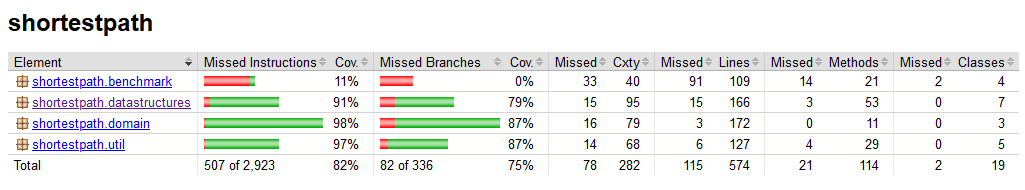
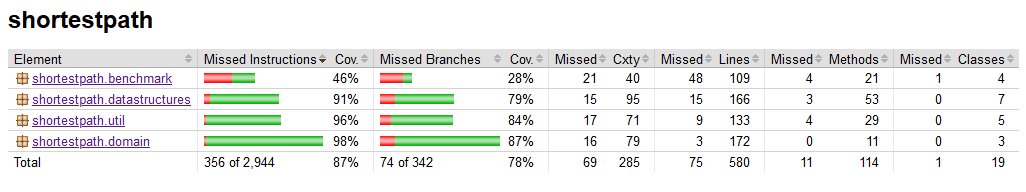
Add more tests

Changed region(s): [[0.0, 0.2368, 0.999, 0.8947], [0.0, 0.0526, 0.1561, 0.1842]]

diff --git a/src/test/java/shortestpath/GridTest.java b/src/test/java/shortestpath/GridTest.java
@@ -36,7 +36,8 @@ public class GridTest {
 
     @Test
     public void cantGetNonExistentNode() {
-        assertAll(() -> assertNull(grid.getNode(-1, 3)),
+        assertAll(
+                () -> assertNull(grid.getNode(-1, 3)),
                 () -> assertNull(grid.getNode(5, -1)),
                 () -> assertNull(grid.getNode(9, 5)),
                 () -> assertNull(grid.getNode(7, 8)),
@@ -46,7 +47,8 @@ public class GridTest {
 
     @Test
     public void validNodeTraversable() {
-        assertAll(() -> assertTrue(grid.traversable(0, 1)),
+        assertAll(
+                () -> assertTrue(grid.traversable(0, 1)),
                 () -> assertTrue(grid.traversable(3, 2)),
                 () -> assertTrue(grid.traversable(4, 1)),
                 () -> assertTrue(grid.traversable(8, 7))
@@ -55,7 +57,8 @@ public class GridTest {
 
     @Test
     public void blockedNodeNotTracersable() {
-        assertAll(() -> assertFalse(grid.traversable(0, 0)),
+        assertAll(
+                () -> assertFalse(grid.traversable(0, 0)),
                 () -> assertFalse(grid.traversable(3, 3)),
                 () -> assertFalse(grid.traversable(6, 6)),
                 () -> assertFalse(grid.traversable(7, 7))
@@ -64,7 +67,8 @@ public class GridTest {
 
     @Test
     public void nonExistentNodeNotTraversable() {
-        assertAll(() -> assertFalse(grid.traversable(-1, 3)),
+        assertAll(
+                () -> assertFalse(grid.traversable(-1, 3)),
                 () -> assertFalse(grid.traversable(5, -1)),
                 () -> assertFalse(grid.traversable(9, 5)),
                 () -> assertFalse(grid.traversable(7, 8)),
@@ -81,9 +85,10 @@ public class GridTest {
         node.setGScore(3);
         node.setVisited(true);
         grid.resetNodes();
-        
+
         Node resettedNode = grid.getNode(3, 2);
-        assertAll(() -> assertFalse(resettedNode.isOpen()),
+        assertAll(
+                () -> assertFalse(resettedNode.isOpen()),
                 () -> assertNull(resettedNode.getParent()),
                 () -> assertEquals(0, resettedNode.getFScore()),
                 () -> assertEquals(0, resettedNode.getGScore()),

diff --git a/src/test/java/shortestpath/ScenarioTest.java b/src/test/java/shortestpath/ScenarioTest.java
@@ -1,0 +1,65 @@
+package shortestpath;
+
+import java.io.File;
+import java.io.IOException;
+import static org.junit.jupiter.api.Assertions.*;
+import org.junit.jupiter.api.BeforeAll;
+import org.junit.jupiter.api.BeforeEach;
+import org.junit.jupiter.api.Test;
+import shortestpath.benchmark.Result;
+import shortestpath.benchmark.Scenario;
+import shortestpath.datastructures.Coordinate;
+import shortestpath.datastructures.Graph;
+import shortestpath.datastructures.List;
+import shortestpath.domain.AStar;
+import shortestpath.io.FileReader;
+import shortestpath.util.Parser;
+
+public class ScenarioTest {
+
+    private static List<String> mapData;
+    private static Graph graph;
+    private Scenario scenario;
+
+    @BeforeAll
+    public static void setUp() throws IOException {
+        mapData = FileReader.read(new File("maps/test.map"));
+        graph = Parser.buildGraph(mapData);
+    }
+
+    @BeforeEach
+    public void buildScenario() {
+        scenario = new Scenario(mapData, new AStar(graph));
+    }
+
+    @Test
+    public void testIsAdded() {
+        shortestpath.benchmark.Test test = new shortestpath.benchmark.Test(
+                new Coordinate(1, 1),
+                new Coordinate(8, 3),
+                12.6568542
+        );
+        scenario.addTest(test);
+        List<shortestpath.benchmark.Test> tests = scenario.getTests();
+        assertEquals(test, tests.get(0));
+    }
+
+    @Test
+    public void testIsRan() {
+        shortestpath.benchmark.Test test = new shortestpath.benchmark.Test(
+                new Coordinate(1, 1),
+                new Coordinate(8, 3),
+                12.6568542
+        );
+        scenario.addTest(test);
+        Result result = scenario.runScenario(1, false);
+        assertAll(
+                () -> assertEquals(1, result.getTestCount()),
+                () -> assertTrue(result.getAvgRunTime() > 0),
+                () -> assertTrue(result.getAvgSetupTime() > 0),
+                () -> assertTrue(result.getMinRunTime() > 0),
+                () -> assertTrue(result.getMaxRunTime() > 0)
+        );
+    }
+
+}

diff --git a/src/main/java/shortestpath/util/MathUtil.java b/src/main/java/shortestpath/util/MathUtil.java
@@ -32,8 +32,12 @@ public class MathUtil {
      *
      * @param values list with values
      * @return average of the values
+     * @throws IllegalArgumentException if list is empty
      */
     public static double average(List<Long> values) {
+        if (values.size() == 0) {
+            throw new IllegalArgumentException();
+        }
         long sum = 0;
         for (int i = 0; i < values.size(); i++) {
             sum += values.get(i);
@@ -46,8 +50,12 @@ public class MathUtil {
      *
      * @param values list with values
      * @return min value
+     * @throws IllegalArgumentException if list is empty
      */
     public static long min(List<Long> values) {
+        if (values.size() == 0) {
+            throw new IllegalArgumentException();
+        }
         long min = Long.MAX_VALUE;
         for (int i = 0; i < values.size(); i++) {
             long value = values.get(i);
@@ -60,7 +68,7 @@ public class MathUtil {
 
     /**
      * Returns the smallest of the two values.
-     * 
+     *
      * @param a first value
      * @param b second value
      * @return min value
@@ -68,14 +76,18 @@ public class MathUtil {
     public static int min(int a, int b) {
         return a < b ? a : b;
     }
-    
+
     /**
      * Returns the largest value in given list.
      *
      * @param values list with values
      * @return max value
+     * @throws IllegalArgumentException if list is empty
      */
     public static long max(List<Long> values) {
+        if (values.size() == 0) {
+            throw new IllegalArgumentException();
+        }
         long max = Long.MIN_VALUE;
         for (int i = 0; i < values.size(); i++) {
             long value = values.get(i);

diff --git a/src/test/java/shortestpath/ParserTest.java b/src/test/java/shortestpath/ParserTest.java
@@ -39,13 +39,14 @@ public class ParserTest {
     public void grapHasCorrectNeighbours() {
         Graph graph = Parser.buildGraph(mapData);
         List<Edge> neighbors = graph.getNeighbors(new Coordinate(7, 6));
-        
-        assertAll(() -> assertEquals(2, neighbors.size()),
+
+        assertAll(
+                () -> assertEquals(2, neighbors.size()),
                 () -> assertEquals(new Coordinate(7, 5), neighbors.get(0).getEnd()),
                 () -> assertEquals(new Coordinate(7, 7), neighbors.get(1).getEnd())
         );
     }
-    
+
     @Test
     public void gridNodeHasCorrectProperties() {
         Grid grid = Parser.buildGrid(mapData);
@@ -60,7 +61,8 @@ public class ParserTest {
         // Java doesn't support aliasing imports :(
         List<shortestpath.benchmark.Test> tests = scen.getTests();
 
-        assertAll(() -> assertEquals(3, tests.size()),
+        assertAll(
+                () -> assertEquals(3, tests.size()),
                 () -> assertTrue(testEquals(new Coordinate(1, 1), new Coordinate(8, 1), 12.6568542, tests.get(0))),
                 () -> assertTrue(testEquals(new Coordinate(1, 1), new Coordinate(1, 4), 3, tests.get(1))),
                 () -> assertTrue(testEquals(new Coordinate(1, 1), new Coordinate(2, 1), 1, tests.get(2)))

diff --git a/src/main/java/shortestpath/benchmark/Scenario.java b/src/main/java/shortestpath/benchmark/Scenario.java
@@ -55,6 +55,10 @@ public class Scenario {
      * @param ignoreFirstRun if true the result for first run is not counted
      */
     public Result runScenario(int runCount, boolean ignoreFirstRun) {
+        // This was originally made with Dijkstra and A* in mind so adding JPS
+        // which uses the raw grid instead of adjecency list made the structure
+        // of this method a bit awkward
+        
         for (int i = 0; i < runCount; i++) {
             long setupTimeStart = System.nanoTime();
             if (pathFinder instanceof JPS) {
